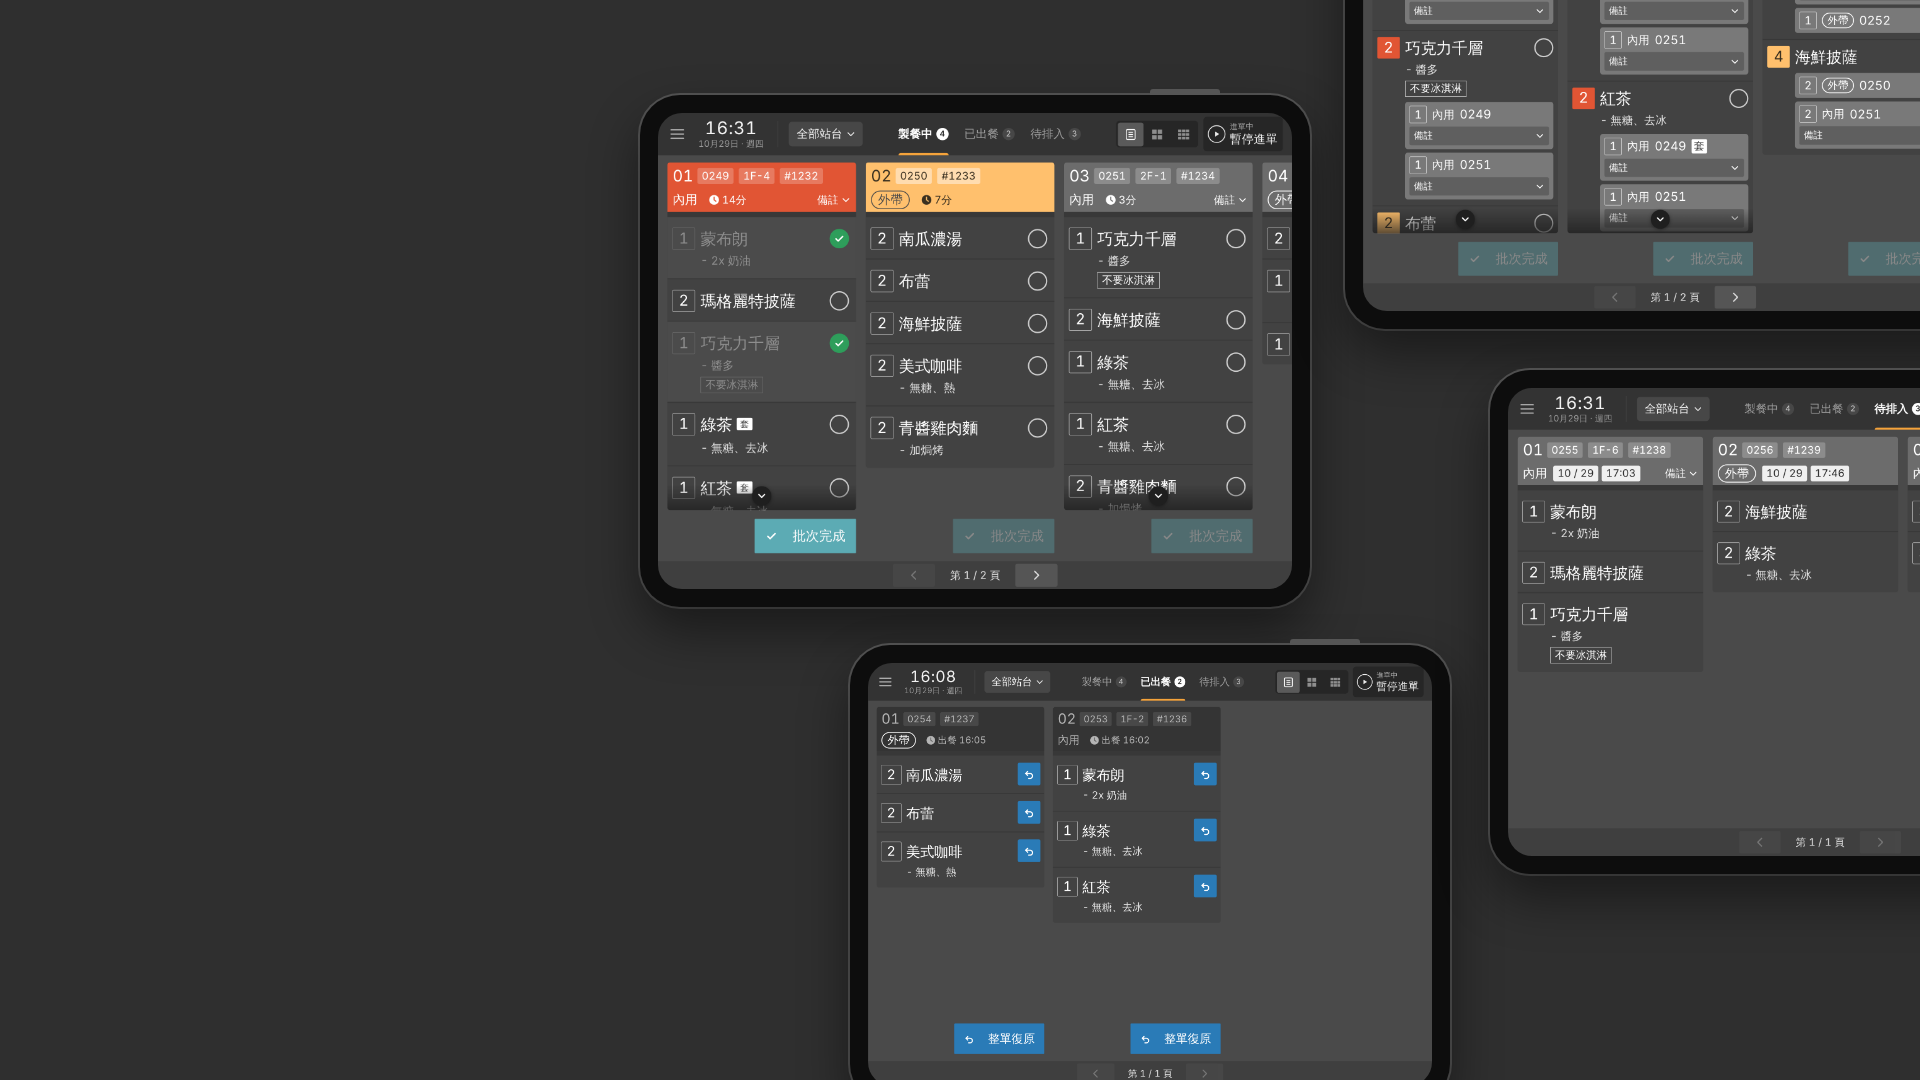
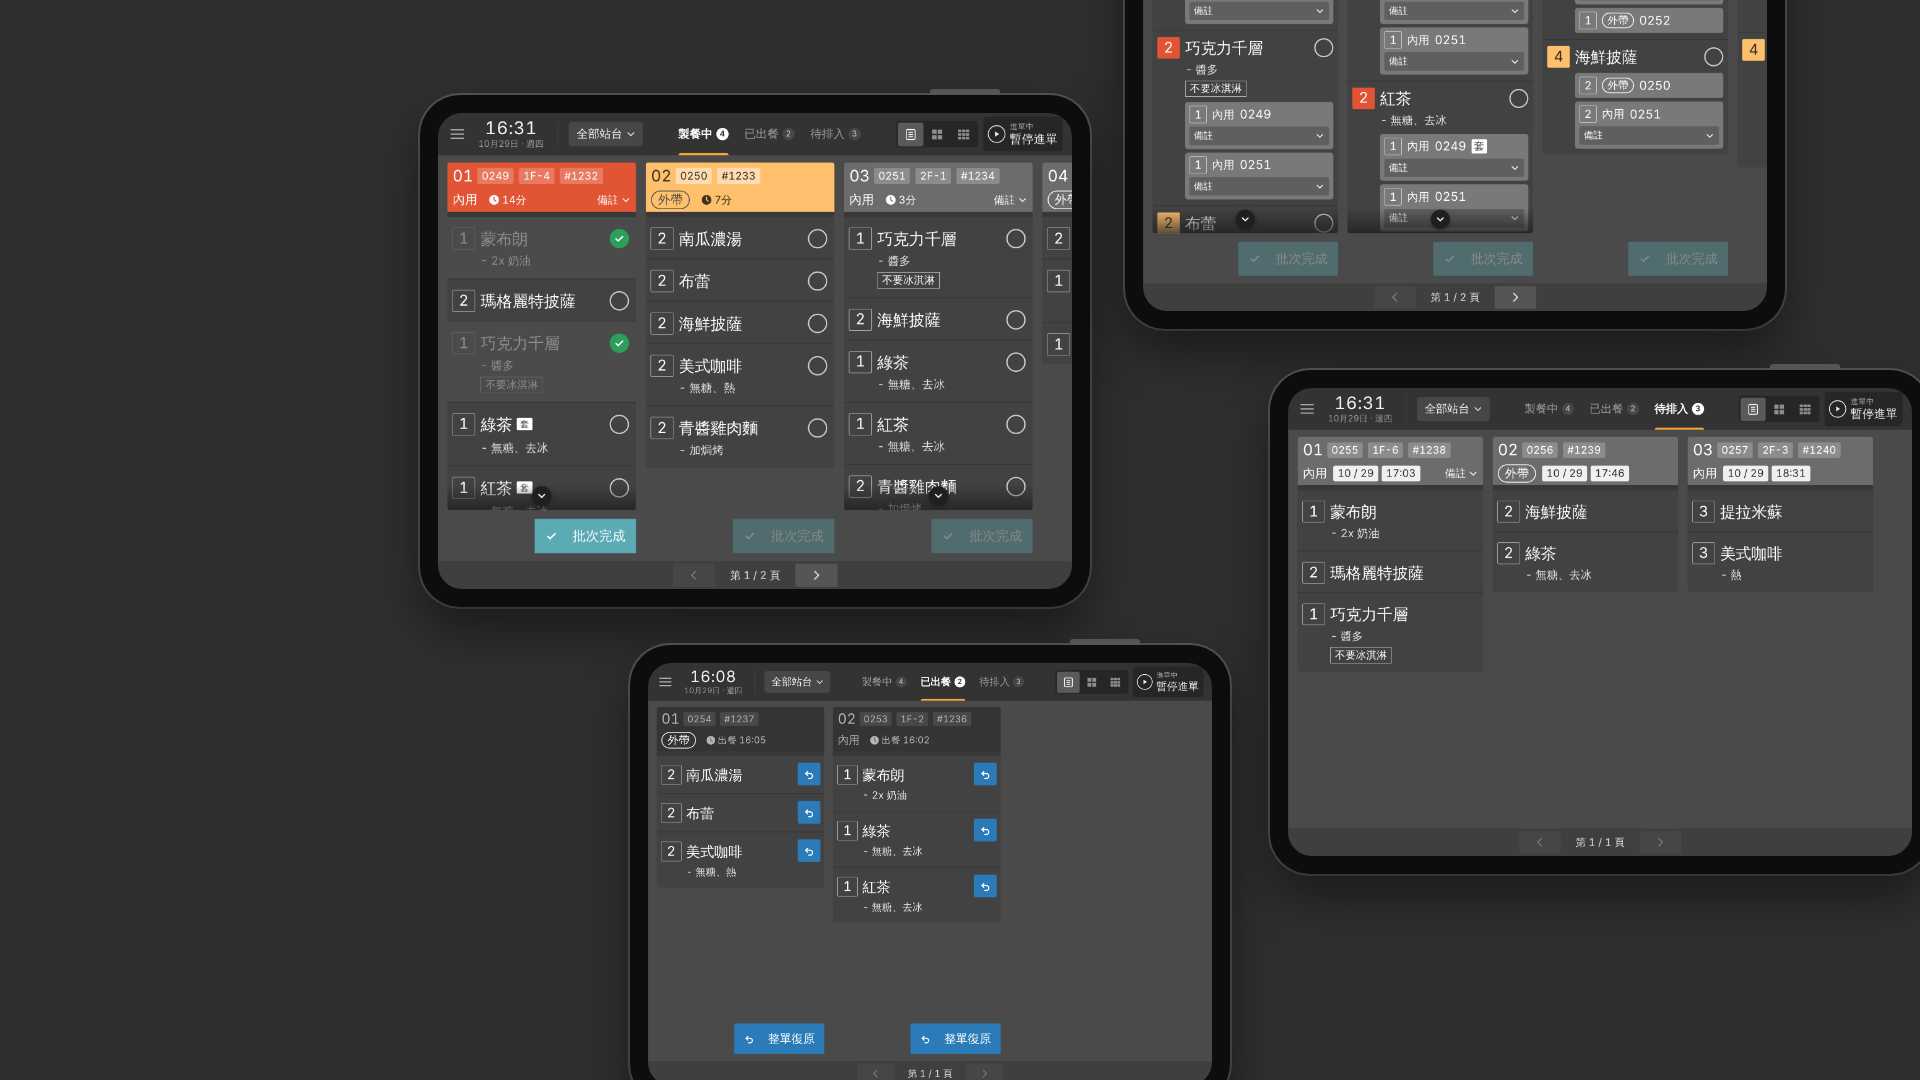
KDS cover: shift tablets left so the composition sits closer to centre
Claude-Session: https://claude.ai/code/session_01NDe3p8GQ2HZ5WF8ct1RAfY

Changed region(s): [[0.2188, 0.0, 1.0, 1.0], [0.5625, 0.825, 0.5938, 0.8556]]

diff --git a/script.js b/script.js
@@ -11,7 +11,7 @@ function updateLanguageControls(){const toggle=document.querySelector('#language
 document.querySelector('#language-toggle')?.addEventListener('click',()=>setPortfolioLanguage(isEnglish()?'zh':'en'));
 const figmaURL='https://www.figma.com/design/S2sh6gtlIJ3JtDM7i3MEiN/portfolio?node-id=1654-18351';
 const repoURL='https://github.com/chi861008/researved-system';
-const visual=(name)=>name==='schedule'?'<div class="work-visual visual-schedule"><div class="arrow-circle" aria-hidden="true">↗</div><div class="schedule-mock"><div class="schedule-top"><strong>Weekly schedule</strong><span>October / 2026　↗</span></div><div class="calendar-week">'+['MON','TUE','WED','THU','FRI','SAT','SUN'].map((d,i)=>'<div class="calendar-day"><b>'+d+'</b>'+(i===0||i===2||i===4?'<span class="calendar-pill">Pilates 10:00</span>':'')+(i===1||i===3?'<span class="calendar-pill orange-pill">Private 14:00</span>':'')+'</div>').join('')+'</div></div></div>':name==='kiosk'?'<div class="work-visual visual-kiosk kiosk-image-cover"><img src="./kiosk-cover.png?v=8" alt="KIOSK 自助點餐介面與付款引導的設計畫面拼貼"><div class="arrow-circle" aria-hidden="true">↗</div></div>':'<div class="work-visual visual-kds kds-image-cover"><img src="./kds-cover.png?v=8" alt="KDS 個人概念設計封面：深色廚房訂單與分類畫面的介面拼貼"><div class="arrow-circle" aria-hidden="true">↗</div></div>';
+const visual=(name)=>name==='schedule'?'<div class="work-visual visual-schedule"><div class="arrow-circle" aria-hidden="true">↗</div><div class="schedule-mock"><div class="schedule-top"><strong>Weekly schedule</strong><span>October / 2026　↗</span></div><div class="calendar-week">'+['MON','TUE','WED','THU','FRI','SAT','SUN'].map((d,i)=>'<div class="calendar-day"><b>'+d+'</b>'+(i===0||i===2||i===4?'<span class="calendar-pill">Pilates 10:00</span>':'')+(i===1||i===3?'<span class="calendar-pill orange-pill">Private 14:00</span>':'')+'</div>').join('')+'</div></div></div>':name==='kiosk'?'<div class="work-visual visual-kiosk kiosk-image-cover"><img src="./kiosk-cover.png?v=8" alt="KIOSK 自助點餐介面與付款引導的設計畫面拼貼"><div class="arrow-circle" aria-hidden="true">↗</div></div>':'<div class="work-visual visual-kds kds-image-cover"><img src="./kds-cover.png?v=9" alt="KDS 個人概念設計封面：深色廚房訂單與分類畫面的介面拼貼"><div class="arrow-circle" aria-hidden="true">↗</div></div>';
 const card=p=>'<a class="work-card" href="#/case/'+p.id+'">'+visual(p.visual)+'<div class="work-info"><div><h3>'+p.title+'</h3><p>'+p.zh+'<br>'+p.type+'</p></div><div class="project-number">'+p.number+' / 03</div></div></a>';
 function home(){return '<section class="identity-hero"><div class="identity-wrap"><h1 class="visually-hidden">Yuan Chi — Product Manager &amp; Product Designer</h1><div class="identity-title"><span>Yuan</span><figure class="identity-photo"><img src="./yuan-chi-expressive-hero.png" alt="Yuan Chi 俏皮的黑白個人照片" fetchpriority="high" loading="eager" decoding="async"><i class="corner c1"></i><i class="corner c2"></i><i class="corner c3"></i><i class="corner c4"></i></figure><span>Chi</span></div><div class="identity-details"><p>Product Manager ×<br>Product Designer</p><p>Research / Strategy / Design<br>From insight to working product</p><p>Based in Taiwan<br><a href="mailto:chi861008@gmail.com">chi861008@gmail.com ↗</a></p></div></div></section><section class="intro-portrait wrap" id="about"><div class="intro-copy"><div class="eyebrow">ABOUT ME</div><h2>Hi<span class="orange">.</span></h2><p>我是產品設計師，正往產品經理發展。擅長把模糊的業務問題拆成可以驗證的假設，再用研究、設計與可運作的原型，幫團隊做出取捨。</p><p>過去曾參與餐飲 POS、自助點餐機、雲端報表及廚房顯示系統等產品。工作之外，我也喜歡從生活中的真實問題發起 Side Project，讓研究、設計與開發不只停留在工作中，也能實際應用於日常生活。</p><a class="intro-link" href="#/about">More about me <span>↗</span></a></div><div class="intro-visual"><img src="./yuan-chi-about-crossleg-slim.svg" alt="Yuan Chi 個人黑白形象照"><div class="orbit-word">DESIGN · RESEARCH · PRODUCT · BUILD ·</div></div></section><section class="section-space wrap" id="work"><div class="section-head selected-head"><div><div class="eyebrow">SELECTED WORK / 2026</div><h2>Works record<span class="orange">.</span></h2></div></div><div class="work-grid identity-works">'+projects.map(card).join('')+'</div></section><section class="dark-band"><div class="wrap"><div class="eyebrow">THE WAY I THINK</div><h2>Fall in love with the problem, not the solution.</h2><a href="mailto:chi861008@gmail.com">Let’s connect ↗</a></div></section>';}
 function aboutSection(){return '<section class="section-space wrap" id="about"><div class="about-mini"><div><div class="eyebrow">02 / About</div><h2>Curious by nature.<br>Builder by choice.</h2></div><div><p>我的背景跨越工業設計、使用者研究與數位產品設計，做過餐飲 POS、自助點餐機與廚房顯示系統。現在我往產品經理發展：定義問題、排定優先順序、用最小成本驗證，必要時用 AI 輔助開發自己把原型做出來。</p><p>我喜歡定義問題、串聯不同線索、提出解法，以及把複雜的邏輯整理得讓人容易理解。</p><div class="skills"><span class="chip">Product Discovery</span><span class="chip">Prioritization</span><span class="chip">UX Research</span><span class="chip">Product Design</span><span class="chip">Prototyping</span><span class="chip">AI-assisted Development</span></div></div></div></section>';}

diff --git a/index.html b/index.html
@@ -29,6 +29,6 @@
     <div class="footer-right"><span>Made with curiosity, 2026.</span><a href="#/">Back to top ↑</a></div>
   </footer>
   <script src="./english.js?v=20261029zzr"></script>
-  <script src="./script.js?v=20261029removemeta"></script>
+  <script src="./script.js?v=20261029zzt"></script>
 </body>
 </html>
